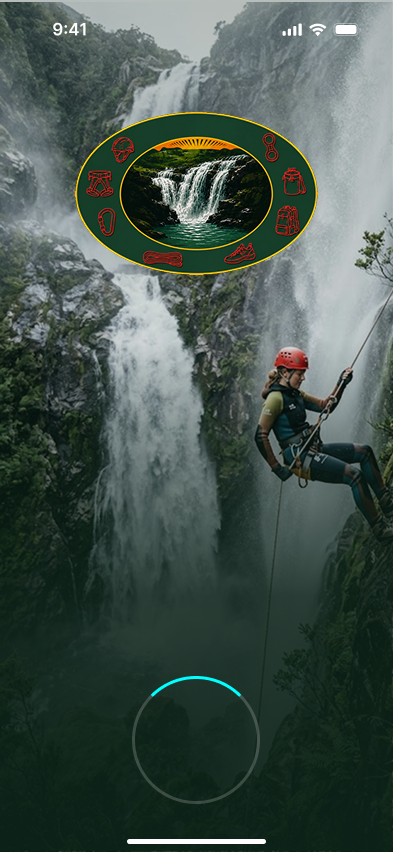
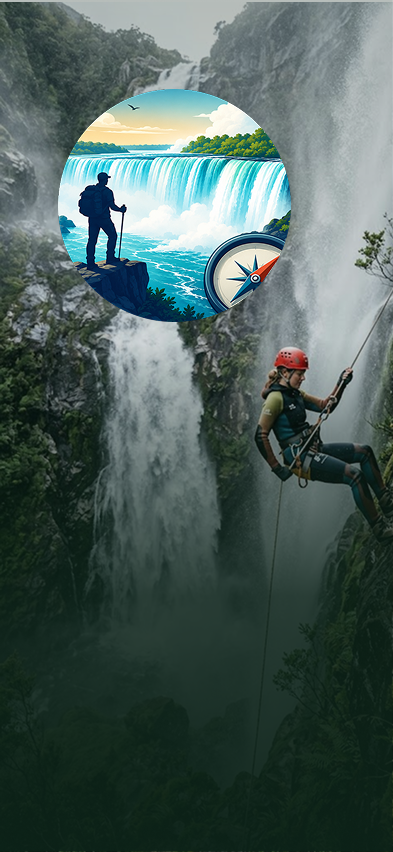
init

diff --git a/src/screens/OnboardingScreen.tsx b/src/screens/OnboardingScreen.tsx
@@ -20,7 +20,7 @@ type Slide = {
 
 const slides: Slide[] = [
   {
-    title: 'Welcome to Niagara Canyoning',
+    title: 'Welcome to Niagara Adventure Guide',
     text: 'Explore waterfall canyons and concealed river routes across Niagara.',
     background: images.onboardingOne,
   },
